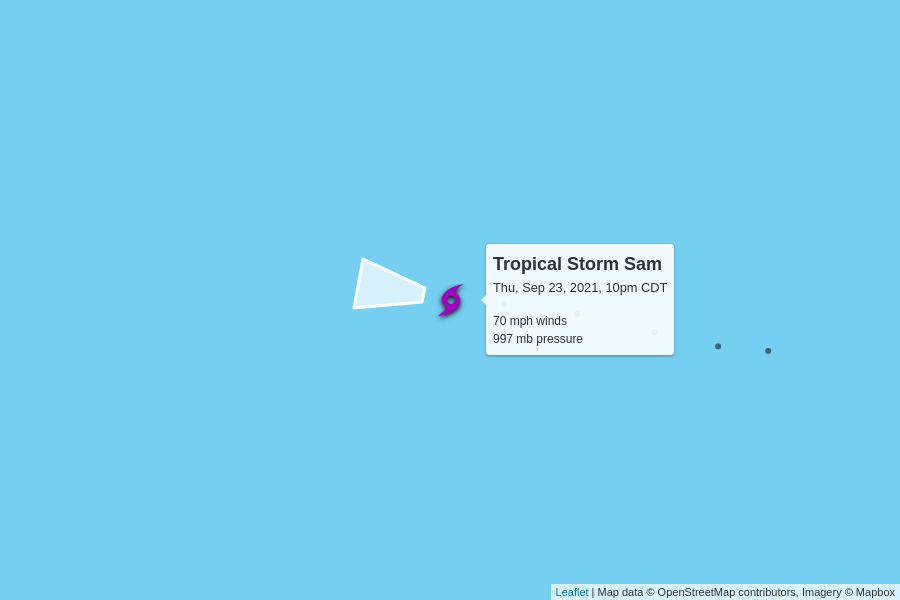
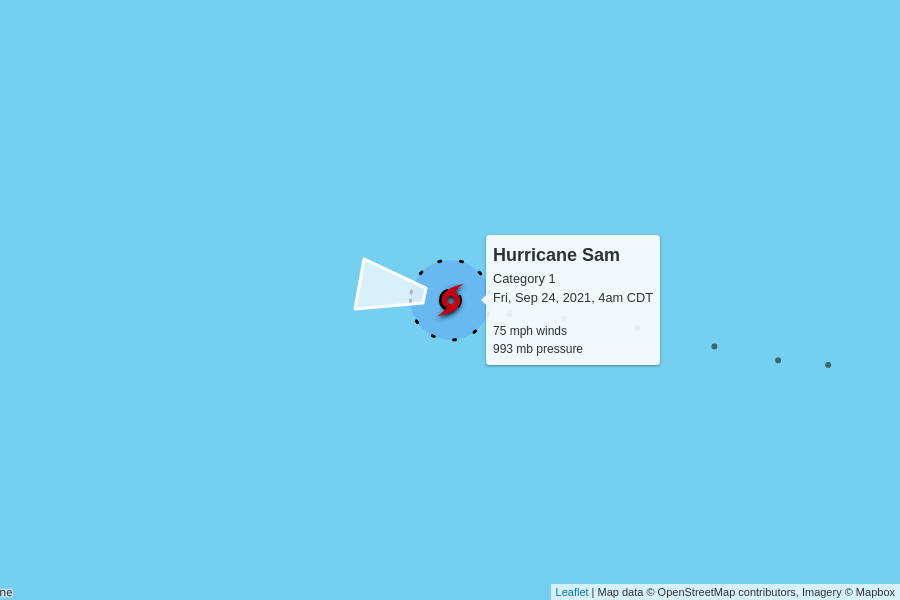
automatic update

diff --git a/docs/index.html b/docs/index.html
@@ -97,10 +97,10 @@
 
     <table>
       <tr>
-        <td colspan="6" class="storm category-0" >
+        <td colspan="6" class="storm category-1" >
           <h2>
-            Tropical Storm Sam
-            <p class="updated">last updated <span data-time>2021-09-24T03:00:00.000Z</span></p>
+            Hurricane Sam - Category 1
+            <p class="updated">last updated <span data-time>2021-09-24T09:00:00.000Z</span></p>
           </h2>
         </td>
       </tr>
@@ -115,8 +115,8 @@
       </tr>
       <tr>
         <td class="spacer"></td>
-        <td>70 mph</td>
-        <td>997 mb</td>
+        <td>75 mph</td>
+        <td>993 mb</td>
         <td>
           15 mph to the west
           <br/>
